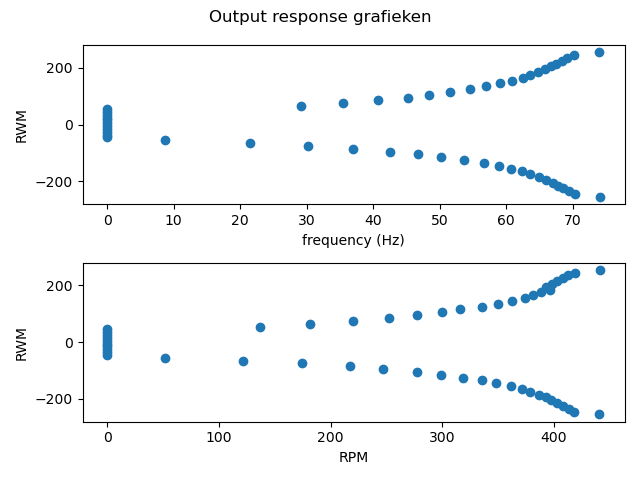
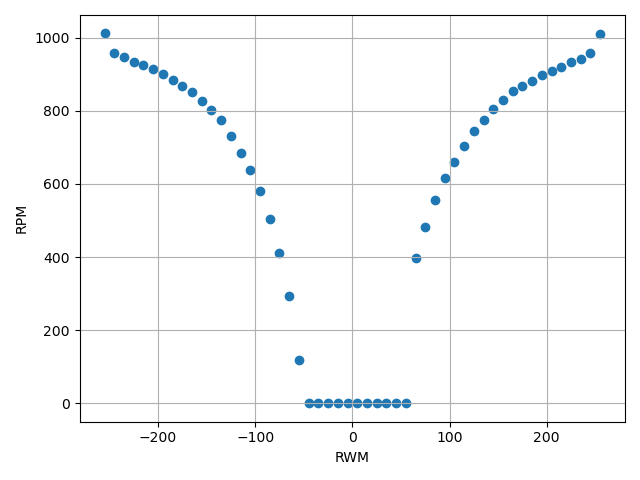
Fixed the output response curve with the correct formula

diff --git a/code/Python/dataV1.py b/code/Python/dataV1.py
@@ -4,24 +4,20 @@ import serial
 import time
 
 RWM = np.array([])
-RPM = np.array([441.41,418.75, 412.26,407.93,402.52, 398.19,392.78,396.03,388.45,380.88,374.33,362.48,349.50, 335.43, 315.96,299.73,277.00,252.12,219.63,181.78,136.34,0,0,0,0,0,0,0,0,0,0, 51.94,121.19,174.21,217.49,246.71,277.0,298.64,318.12,335.43,348.42,361.40,371.14,378.71,386.29, 392.78,397.11,402.52,407.93,413.34,417.67,440.39 ])
+
 frequency = np.array([74.0, 70.18, 69.09, 68.36, 67.45, 66.73, 65.82,64.73, 63.64, 62.55, 60.91,   59.09,56.91, 54.55, 51.64, 48.36, 45.27,40.73,35.45,29.09, 0, 0, 0 ,0 , 0, 0 ,0,0 ,0 ,0 ,0, 8.73, 21.45, 30.18, 36.91, 42.55, 46.73,50.18, 53.64, 56.73, 58.91, 60.73, 62.36, 63.64, 64.91,66.0,67.09,67.82,68.55,69.45,70.36, 74.18])
+RPM = 60*frequency/4.4
 x = 255
 
 while x >=-255:
     RWM = np.append(RWM, x)
     x-=10
-fig, (ax1, ax2) = plt.subplots(2)
-fig.suptitle('Output response grafieken')
 
-ax1.scatter(frequency, RWM)
-ax1.set_xlabel("frequency (Hz)")
-ax1.set_ylabel("RWM")
 
-ax2.scatter(RPM, RWM)
-ax2.set_xlabel("RPM")
-ax2.set_ylabel("RWM")
-
+plt.scatter(RWM, RPM)
+plt.xlabel("RWM")
+plt.ylabel("RPM")
+plt.grid()
 plt.tight_layout()
 plt.show()
 
